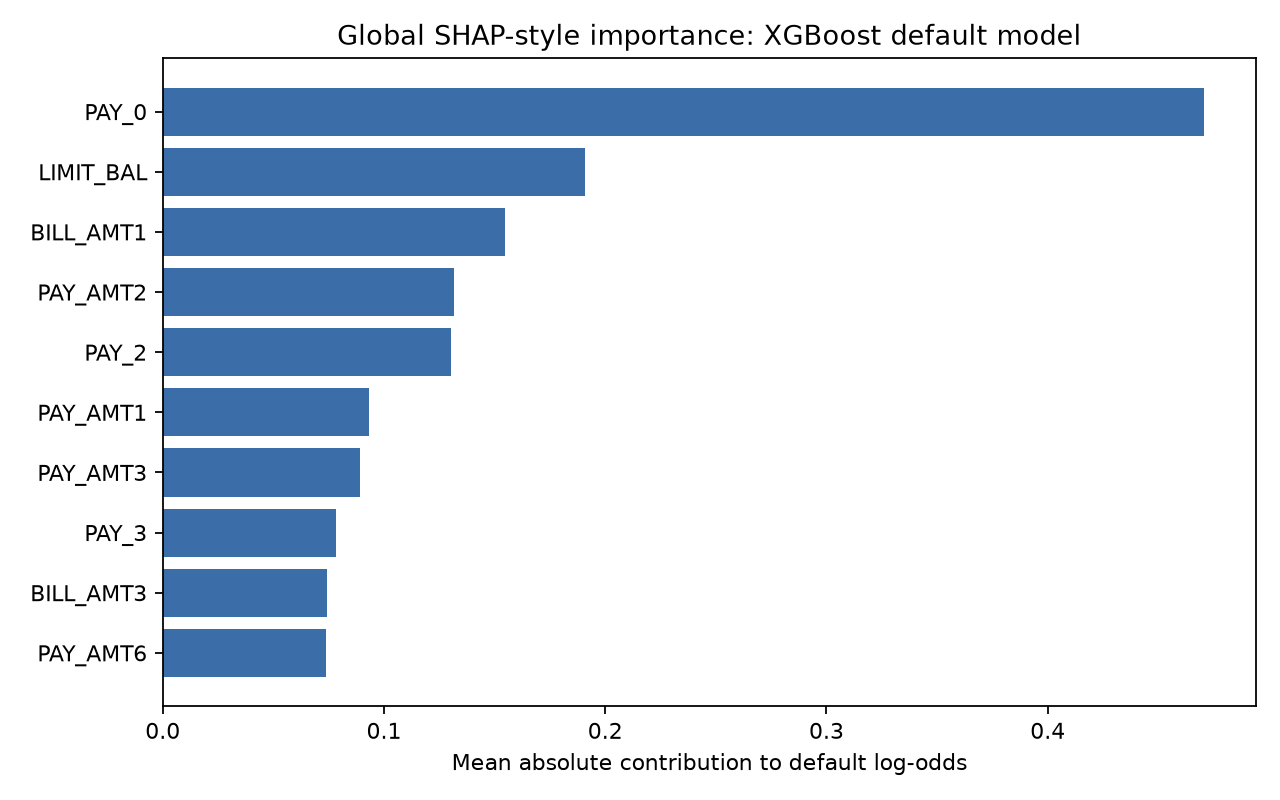
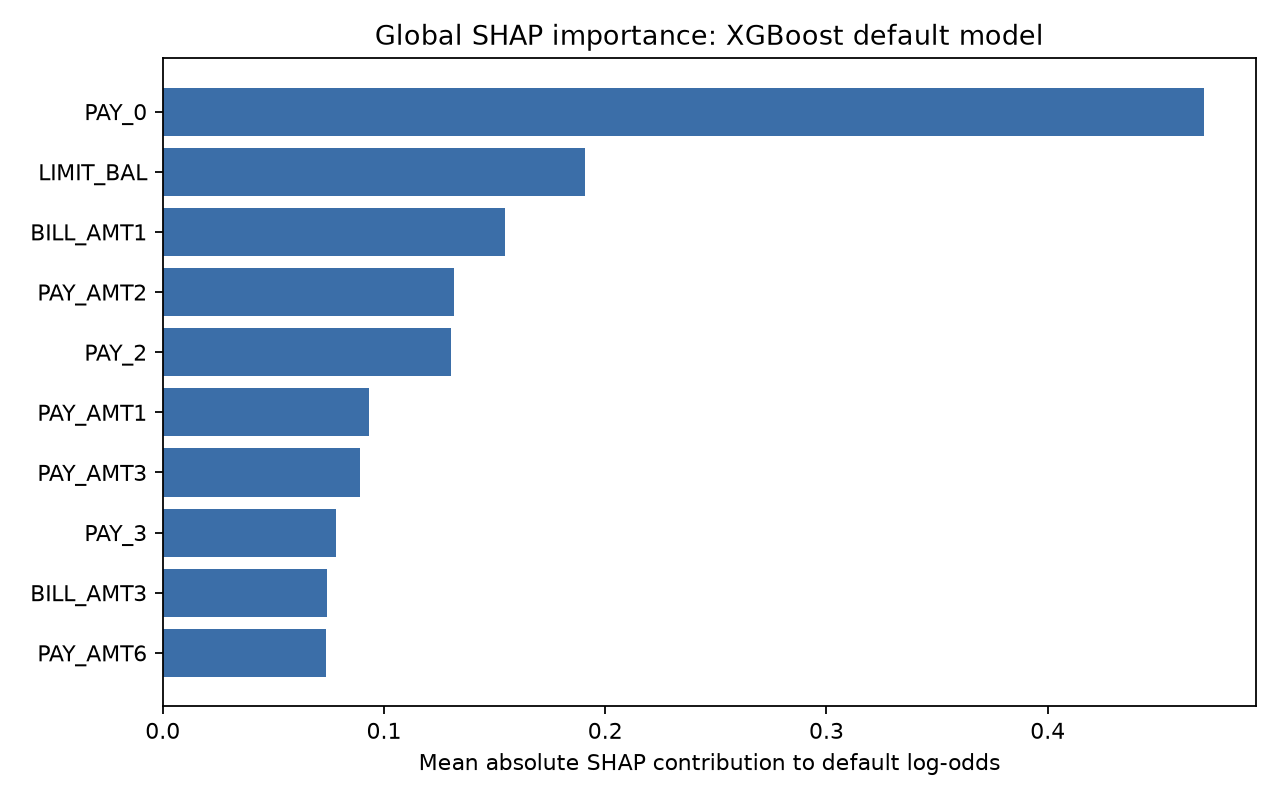
docs: clarify SHAP and cost units

Changed region(s): [[0.25, 0.0312, 0.8438, 0.0625], [0.3125, 0.9375, 0.7812, 0.9688]]

diff --git a/MODEL_CARD.md b/MODEL_CARD.md
@@ -24,7 +24,7 @@ Held-out test results:
 | Logistic scorecard | 0.7752 | 0.4191 | 0.5504 |
 | XGBoost | 0.7835 | 0.4365 | 0.5670 |
 
-The strongest scorecard IV feature is `PAY_0` (`0.8628`), followed by prior repayment-status variables. SHAP-style global importance for XGBoost also ranks `PAY_0` first (`0.4706` mean absolute contribution).
+The strongest scorecard IV feature is `PAY_0` (`0.8628`), followed by prior repayment-status variables. SHAP global importance for XGBoost also ranks `PAY_0` first (`0.4706` mean absolute contribution).
 
 ## Decision Threshold
 
@@ -37,9 +37,11 @@ The threshold is selected by expected cost, with a missed default costing 5x a w
 
 Expected profit is revenue from approved good accounts minus loss from approved defaulting accounts. Expected cost additionally counts declined good accounts as lost opportunity cost.
 
+Cost/profit values are per account in model cost units: one approved default costs 5 units and one wrongly declined good account costs 1 unit. In units of one default's loss, divide the table values by 5. At a €4,000 average loss per default and 1,000 applicants, the cost-based threshold's expected profit is about €185,200.
+
 ## Explainability
 
-Reason codes use XGBoost contribution values. Example declined applicant `ID 10745` has predicted default probability `88.5%`; top plain-language reasons are:
+Reason codes use XGBoost SHAP contribution values. Example declined applicant `ID 10745` has predicted default probability `88.5%`; top plain-language reasons are:
 
 1. Most recent repayment status shows delinquency or delayed payment.
 2. Prior-month repayment status shows delinquency or delayed payment.
